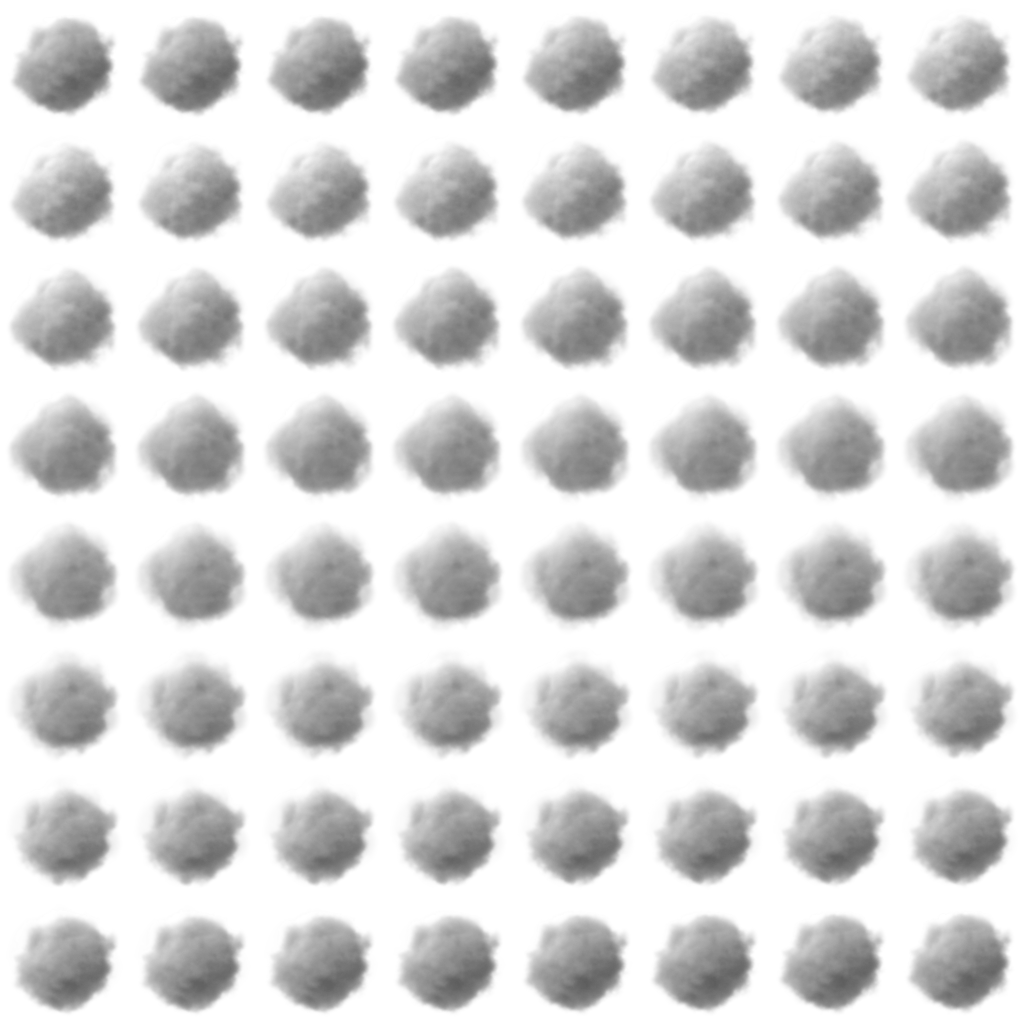
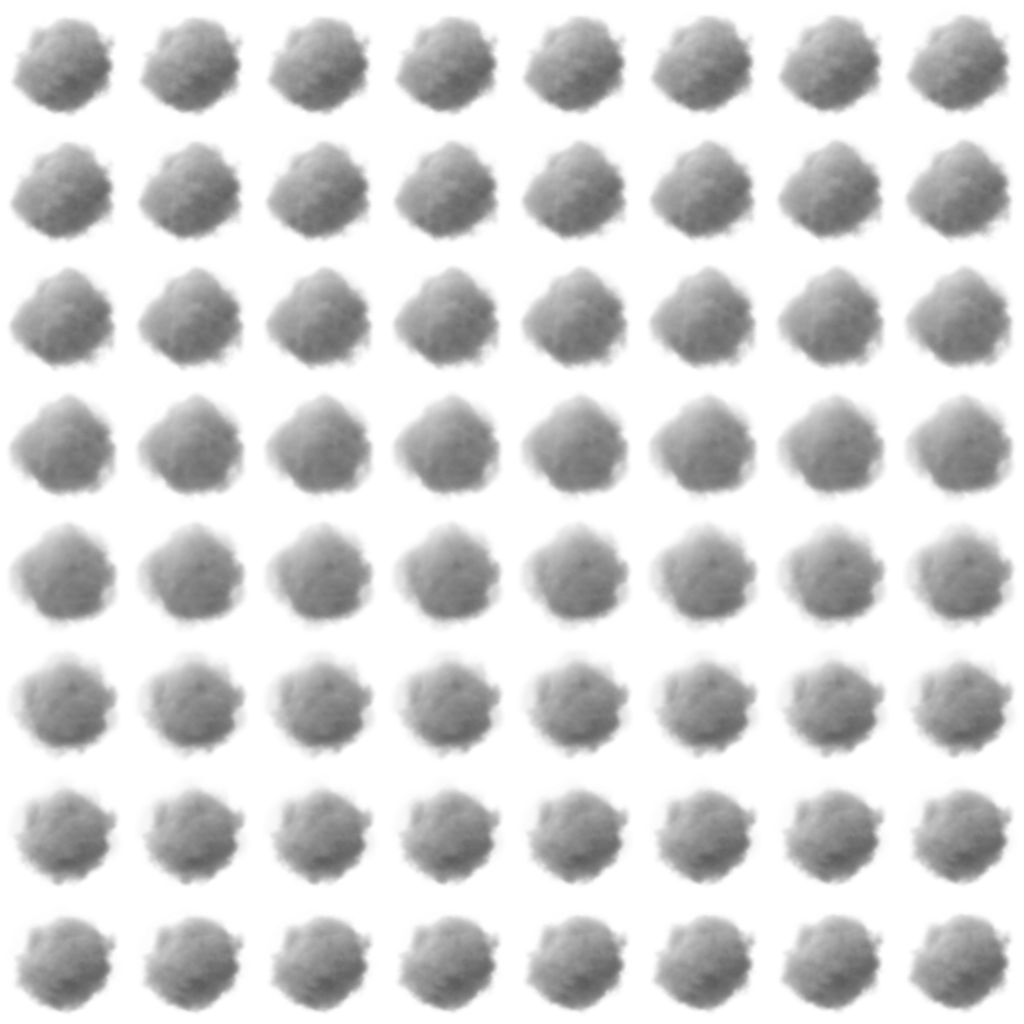
Smoke that disperses and flipbooks that don't flicker, caught by the pipeline
The slam's smoke flickered: Iché's explosion_smoke flipbook isn't a
sequence (its frames jump, steadiness 1.6 against 0.05 for smooth
smoke), and the import scaled each frame's brightness alone. texgen cc0
now scales a sequence as a whole and scores every flipbook's steadiness;
the grammar flags a smoke, glow, ground or dust layer playing a jumpy
one, and a volume must spread, slow and thin. ground_slam_v4 moves to
Iché's wispy smoke (8 thin puffs dispersing over 1.4-2.2 s) and
CodeManu's hand-drawn explosion: smoke jitter 0.229 to 0.003, grammar 0.

The plan gains an agent chain for VFX (beat director, layer designer,
curve tuner, describer and checker), after Gerardo Schiavone's workflow.

diff --git a/tools/texgen/cc0.py b/tools/texgen/cc0.py
@@ -33,6 +33,7 @@ RULES = os.path.join(HERE, "cc0.json")
 SRC = os.path.join(ROOT, ".cache", "cc0")
 OUT = os.path.join(ROOT, "pack", "cc0")
 GRIDS = {4: 2, 16: 4, 64: 8}
+JUMPY = 0.15  # steadiness over this: the frames jump; use the texture as variants, not as a flipbook
 
 
 def _load(path):
@@ -51,17 +52,48 @@ def _alpha_from_black(rgba):
     return rgba
 
 
-def normalize(rgba, mode):
+def _luma(rgba):
+    return rgba[..., :3] @ np.array([0.299, 0.587, 0.114], np.float32)
+
+
+def normalize(rgba, mode, top=None):
+    """One image to the pack convention. `top` is the brightest grey of the whole sequence
+    for luma frames: frames are scaled together, never one by one, or a smoke flipbook's
+    brightness would pump from frame to frame."""
     rgba = _alpha_from_black(rgba)
     rgb, a = rgba[..., :3], rgba[..., 3]
     lum = rgb.max(axis=2)
     if mode == "white":
         return np.dstack([np.ones_like(rgb), a * lum])
     if mode == "luma":
-        g = (rgb @ np.array([0.299, 0.587, 0.114], np.float32))[..., None]
-        g = g / max(1e-3, float(g[a > 0.1].max()) if (a > 0.1).any() else 1.0)
-        return np.dstack([np.repeat(np.clip(g, 0, 1), 3, axis=2), a])
+        g = _luma(rgba)[..., None]
+        if top is None:
+            top = float(g[a > 0.1].max()) if (a > 0.1).any() else 1.0
+        return np.dstack([np.repeat(np.clip(g / max(1e-3, top), 0, 1), 3, axis=2), a])
     return rgba
+
+
+def normalize_all(frames, mode):
+    """A sequence to the pack convention, with one brightness scale for all its frames."""
+    if mode != "luma":
+        return [normalize(f, mode) for f in frames]
+    raws = [_alpha_from_black(f) for f in frames]
+    top = max((float(_luma(r)[r[..., 3] > 0.1].max()) for r in raws if (r[..., 3] > 0.1).any()), default=1.0)
+    return [normalize(r, mode, top) for r in raws]
+
+
+def steadiness(frames):
+    """How much a sequence changes from one frame to the next, over how much there is
+    (alpha x brightness, small): about 0.05 for smooth smoke, 0.2 and up for frames that
+    jump (a sheet of variants, or a sequence that flickers when played as one)."""
+    small = []
+    for f in frames:
+        img = Image.fromarray((np.clip(f, 0, 1) * 255).astype(np.uint8), "RGBA").resize((64, 64), Image.BILINEAR)
+        g = np.asarray(img, np.float32) / 255
+        small.append(g[..., 3] * g[..., :3].max(axis=2))
+    level = float(np.mean([x.mean() for x in small])) or 1e-6
+    jumps = [float(np.abs(x - y).mean()) for x, y in zip(small, small[1:])]
+    return round(float(np.mean(jumps)) / level, 3) if jumps else 0.0
 
 
 def _resize(rgba, side):
@@ -171,20 +203,23 @@ def run(dry=False):
         for key, paths in groups.items():
             clean = _slug(key.rsplit("_", 1)[0] if rule["kind"] == "sheet-grid" else key)
             name = f"cc0_{rule['prefix']}_{clean}"
+            steady = None
             if rule["kind"] == "shape":
                 rgba = _resize(_square(normalize(_load(paths[0]), rule["rgb"])), rule["size"])
                 grid, frames = 1, 1
             else:
                 if rule["kind"] == "sequence-folder":
-                    seq = [normalize(_load(p), rule["rgb"]) for p in paths]
+                    seq = normalize_all([_load(p) for p in paths], rule["rgb"])
                 else:
                     cols, rows = rule.get("grid") or _grid_from_name(key)
                     if "x" not in key.rsplit("_", 1)[-1]:
                         raise SystemExit(f"texgen cc0: {key} has no grid in its name")
-                    seq = [normalize(c, rule["rgb"]) for c in cells(_load(paths[0]), cols, rows)]
+                    seq = normalize_all(cells(_load(paths[0]), cols, rows), rule["rgb"])
                 n = rule.get("frames") or _frames_for(len(seq))
-                rgba, grid = atlas(resample(seq, n), rule["size"], rule.get("edgeFade", False))
+                picked = resample(seq, n)
+                rgba, grid = atlas(picked, rule["size"], rule.get("edgeFade", False))
                 frames = n
+                steady = steadiness(picked)
             role = next((r for stem, r in rule.get("roles", {}).items() if _slug(key).startswith(stem)), rule["role"])
             entry = {
                 "id": f"cc0/{rule['prefix']}_{clean}",
@@ -202,6 +237,9 @@ def run(dry=False):
                 "url": pack["url"],
                 "original": [os.path.relpath(p, base) for p in paths][:4] + (["..."] if len(paths) > 4 else []),
             }
+            if steady is not None:
+                entry["steadiness"] = steady
+                entry["jumpy"] = steady > JUMPY
             if dry:
                 print(f"{name:<48} {entry['kind']:<8} {entry['size'][0]}x{entry['size'][1]} grid {grid} frames {frames}")
             else:

diff --git a/tools/evfx/grammar.py b/tools/evfx/grammar.py
@@ -28,6 +28,8 @@ that don't depend on how big the effect is, so a sword hit and a meteor compare:
     pop       how much of it is still visible on its last frame (0 clean, 1 vanishes
               whole: the abrupt end)
     end       seconds from its own start until its last particle is gone
+    steady    for a one-shot flipbook, how much its frames jump from one to the next
+              (pack/cc0 manifest; about 0.05 for smooth smoke, over 0.15 flickers)
 
 Sizes are in bodies, not over the effect's own size: effects are made to sit on a
 character, and it lets open effects without a base layer compare. grammar.json holds, per
@@ -42,7 +44,7 @@ import os
 HERE = os.path.dirname(os.path.abspath(__file__))
 GRAMMAR = os.path.join(HERE, "grammar.json")
 BODY = 5.0
-MEASURES = ("count", "delay", "life", "vary", "stop", "reach", "spread", "size", "grow", "fade", "solid", "light", "z", "exit", "tail", "leave", "pop", "end")
+MEASURES = ("count", "delay", "life", "vary", "stop", "reach", "spread", "size", "grow", "fade", "solid", "light", "z", "exit", "tail", "leave", "pop", "end", "steady")
 
 
 def load():
@@ -107,6 +109,23 @@ def fade_point(transparency):
 
 
 _FLIP = {}
+_STEADY = None
+
+
+def steadiness(texture):
+    """A CC0 flipbook's steadiness from pack/cc0/manifest.json, or None."""
+    global _STEADY
+    if _STEADY is None:
+        from . import core
+
+        path = os.path.join(core.CC0, "manifest.json")
+        _STEADY = {}
+        if os.path.exists(path):
+            with open(path, encoding="utf-8") as f:
+                for k, e in json.load(f)["textures"].items():
+                    if "steadiness" in e:
+                        _STEADY[k] = e["steadiness"]
+    return _STEADY.get((texture or "").split("://")[-1])
 
 
 def flip_profile(texture, flipbook):
@@ -200,6 +219,8 @@ def particle(b, frame_time):
         kind, pop = "dissolve", round(flip_pop * pop, 3)
         row["end"] = round(max(b["lifetime"]) * seen, 3)
     row.update(exit=kind, tail=tail, pop=pop, leave=round(tail * life, 3))
+    if b.get("flipMode") == "OneShot" and b.get("flipbook") not in (None, "None"):
+        row["steady"] = steadiness(b.get("texture"))
     return row
 
 
@@ -305,7 +326,7 @@ def judge(rows, grammar=None, spec=None):
     return out
 
 
-COLUMNS = ("role", "count", "delay", "life", "vary", "stop", "reach", "spread", "size", "grow", "solid", "light", "z", "exit", "tail", "leave", "pop", "end")
+COLUMNS = ("role", "count", "delay", "life", "vary", "stop", "reach", "spread", "size", "grow", "solid", "light", "z", "exit", "tail", "leave", "pop", "end", "steady")
 
 
 def table(rows, found):

diff --git a/docs/plan-real-vfx.md b/docs/plan-real-vfx.md
@@ -388,5 +388,25 @@ beat against its sheet, its reference beat and the SE370 move it plays on, timed
 the references and from 50 open Roblox effects (`evfx study`). Next on this list: `forge` (search the knobs against
 both judges) and calibration on Phát's picks.
 
+**An agent chain, not one agent (2026-10-24).** [Gerardo Schiavone's generative workflow](https://www.youtube.com/watch?v=TaRO9IJ6CkE)
+(Griptape and Nuke) runs three briefed agents in a loop per shot: a director of photography, a layout artist who
+owns motion and depth, and a prompt writer. JSON between them is the guardrail. A vision model describes each output
+in words, and a checker compares that with the intent, iterating until they match. A person picks at the end. The
+lesson is the same as ours: an agent needs a role, rules, context and data, and a check it can't talk its way past.
+The aim: a hero effect should need one or two tuning passes by voice before it ships, not five or six. The VFX
+version:
+
+| Agent | Role | Rules and context | Output |
+|---|---|---|---|
+| Beat director | the beats and their timing | the motion bible, the move's windup, active and recovery, the references' beat stats | the beat sheet (`tools/evfx/sheets`) |
+| Layer designer | the layers of each beat | the grammar's roles and the five depths, the texture library (texgen, pack/cc0 with steadiness) | the preset's layers |
+| Curve tuner | each layer's numbers and exit | the grammar's ranges and exits, `evfx serve` knobs, Phát's picks | the tuned preset |
+| Describer and checker | what it looks like against what was meant | `evfx beats`, `evfx grammar`, a strip described in words, set against each beat's intent line | a fix list back to the tuner; it loops until clean |
+
+Each beat in a sheet gains an `intent` line ("smoke spreads out, slows and thins away"), so the checker has words to
+compare with, not only numbers. The first catch of this kind: the slam's smoke flickered because its flipbook's frames
+jumped (a steadiness of 1.6 where smooth smoke is 0.05). The grammar now flags that (`steady`), and a volume must
+spread, slow and thin (`grow`, `stop`, `solid`).
+
 **For SE370's sound:** sounds are still stubs (sound-M4). earshot itself could be the sound side of this pipeline,
 paired with evfx: one cue list, both checked against the same animation markers.

diff --git a/CHANGELOG.md b/CHANGELOG.md
@@ -4,6 +4,18 @@ All notable changes to EasyVFX are listed here. Versions follow [Semantic Versio
 
 ## [Unreleased]
 
+### Smoke that disperses, and flipbooks that don't flicker
+- The slam's smoke flickered: its CC0 flipbook (Iché's `explosion_smoke_01`) isn't a sequence, so its frames jump
+  (steadiness 1.6, where smooth smoke is 0.05). The import also scaled each frame's brightness separately. Now
+  `texgen cc0` scales a sequence as a whole and scores every flipbook's steadiness (`jumpy` over 0.15). The grammar
+  flags a smoke, glow, ground or dust layer playing a jumpy flipbook (`steady`), and a volume must spread, slow and
+  thin (`grow`, `stop`, `solid`).
+- `ground_slam_v4` now uses steady textures: Iché's wispy smoke for the volume, with 8 thin puffs that burst out,
+  slow under drag, keep spreading and thin away over 1.4–2.2 s, and CodeManu's hand-drawn explosion for the blast.
+  Smoke jitter went from 0.229 to 0.003, and the grammar finds 0 issues.
+- The plan gains an agent chain for VFX (beat director, layer designer, curve tuner, describer and checker), after
+  Gerardo Schiavone's generative workflow.
+
 ### Ground Slam (v4), rebuilt on its beat sheet
 - `ground_slam_v4` fires at the press. A Tell (a tightening gold ring, a glint, rising motes) carries Cleave's 0.5 s
   wind-up, the 2-frame hit and the hit-stop land at 0.5 s, and each layer leaves its own way. The blast is a CC0

diff --git a/docs/cc0-library.md b/docs/cc0-library.md
@@ -44,6 +44,12 @@ Download each pack into `.cache/cc0/<folder>` (the folders are named in `cc0.jso
   - Iché's 16×4 and 15×4 flames become 8×8;
   - CodeManu's 6×5 sheets become 4×4;
   - Kenney's 9-frame explosions become 16 frames.
+- **Scores each flipbook's steadiness:** how much a frame changes from the one before, over how much there is. Smooth
+  smoke is about 0.05. Over 0.15 is `jumpy` in the manifest, and the grammar won't let a smoke, glow, ground or dust
+  layer play it as a flipbook. Iché's three explosion books (1.6–1.8) aren't sequences, so play them as variants or
+  not at all. His cloud (0.01–0.02), wispy smoke (0.08–0.15) and fire (0.07–0.15) books are smooth. CodeManu's
+  hand-drawn hits jump on purpose: a cartoon hit changes shape every frame. A sequence's frames share one brightness
+  scale, never one each, or smoke would pump.
 - **Gives each texture a role** from the VFX grammar, by its name (`roles` in `cc0.json`). The grammar and the studio
   then treat them like our own layers.
 
